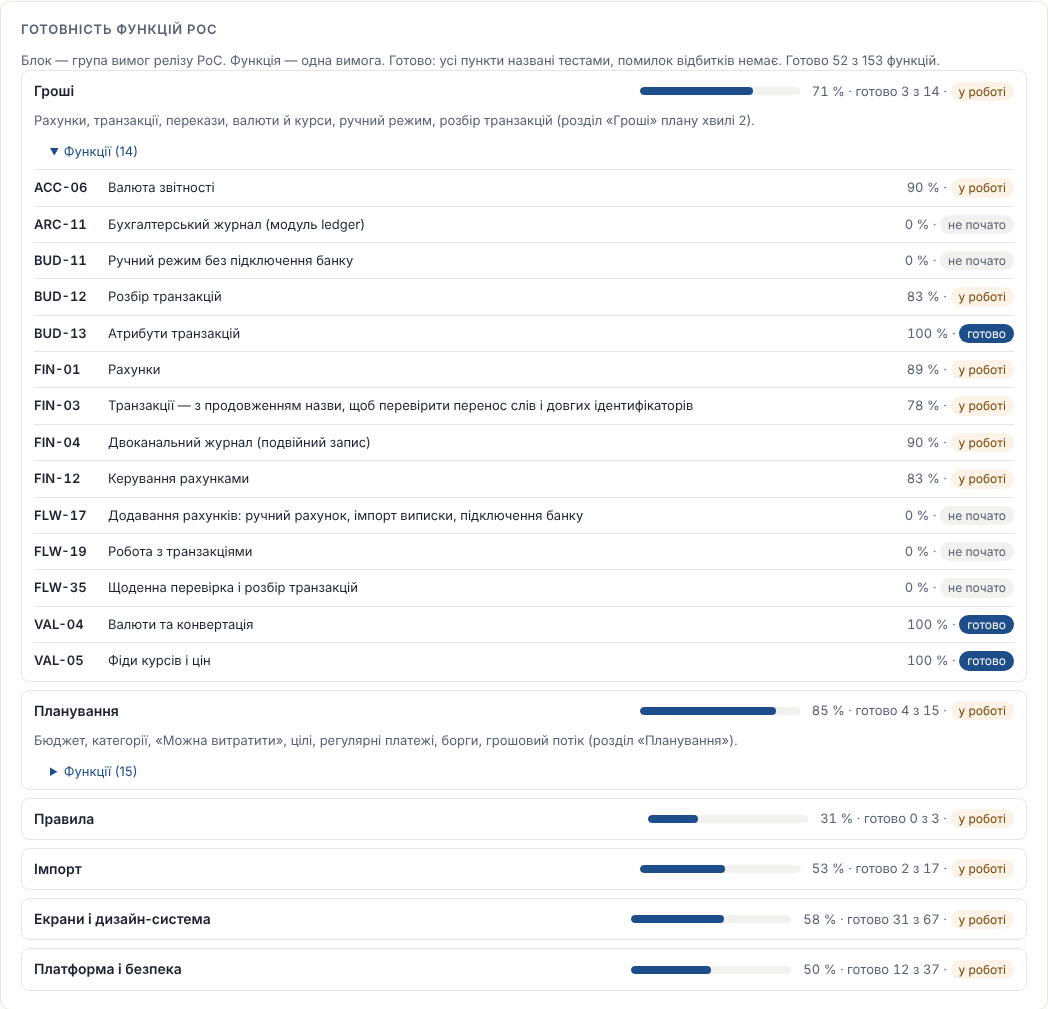
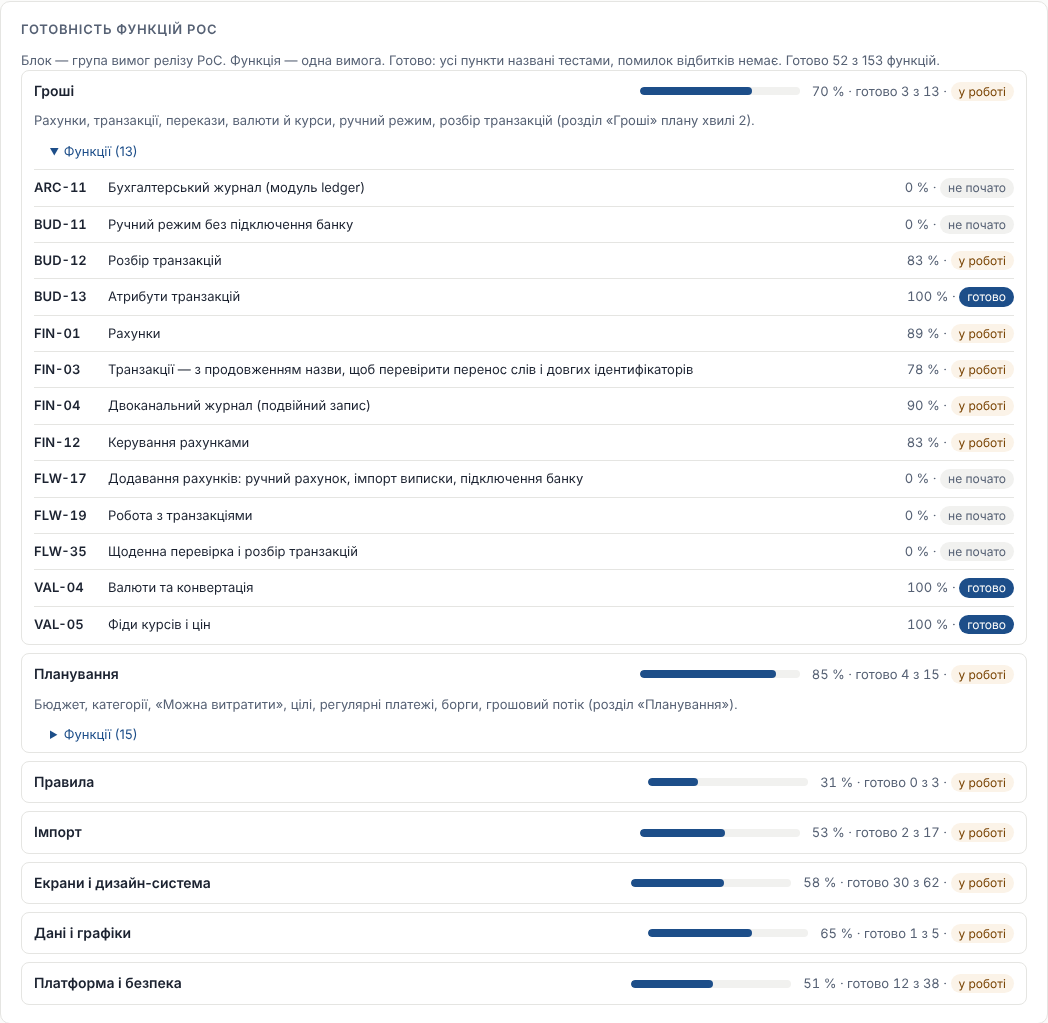
PRC-02: blocks — «Дані і графіки», all ACC-* in «Платформа і безпека»
Claude-Session: https://claude.ai/code/session_01Si6vs2sJ1s1pnxLk1y58Ad

diff --git a/docs/decisions/log/2026-11-27-owner-dashboard-features.md b/docs/decisions/log/2026-11-27-owner-dashboard-features.md
@@ -5,6 +5,7 @@
 - Рішення власника (2026-11-27, чат), дослівно: «давай відновимо дашборд, і додамо туди фіче реадінес по кожній фісі з пос».
 - Обмеження власника (2026-11-27, чат), дослівно: «але я не хочу щоб на його оновлення витрачались токени».
 - Рішення власника (2026-11-27, чат), дослівно: «так, більші блоки». Відповідь на пропозицію ведучого: верхній рівень блоку — великі продуктові блоки, а не ID вимог.
+- Рішення власника (2026-11-27, чат, після першого показу блоків), дослівно: «так, зроби обидві зміни». Зміни: (1) DAT-* і CHT-* з блоку «Екрани і дизайн-система» — у новий блок «Дані і графіки»; (2) усі ACC-* в одному блоці — «Платформа і безпека» (ACC-06 «Валюта звітності» — налаштування простору, не рахунок грошей, тому теж туди; раніше був у «Гроші»).
 - Тлумачення ведучого (власник його не підтверджував): це скасовує рішення 2026-11-20 «не оновлювати дашборд» (`docs/plans/progress.json` був ручним знімком). «Функція» — вимога релізу PoC (IMP-03, BUD-01, CMP-21 …), згрупована за розділом (префікс ID, назва розділу українською). Готовність рахується автоматично, ручного файлу немає.
 
 ## Що змінено
